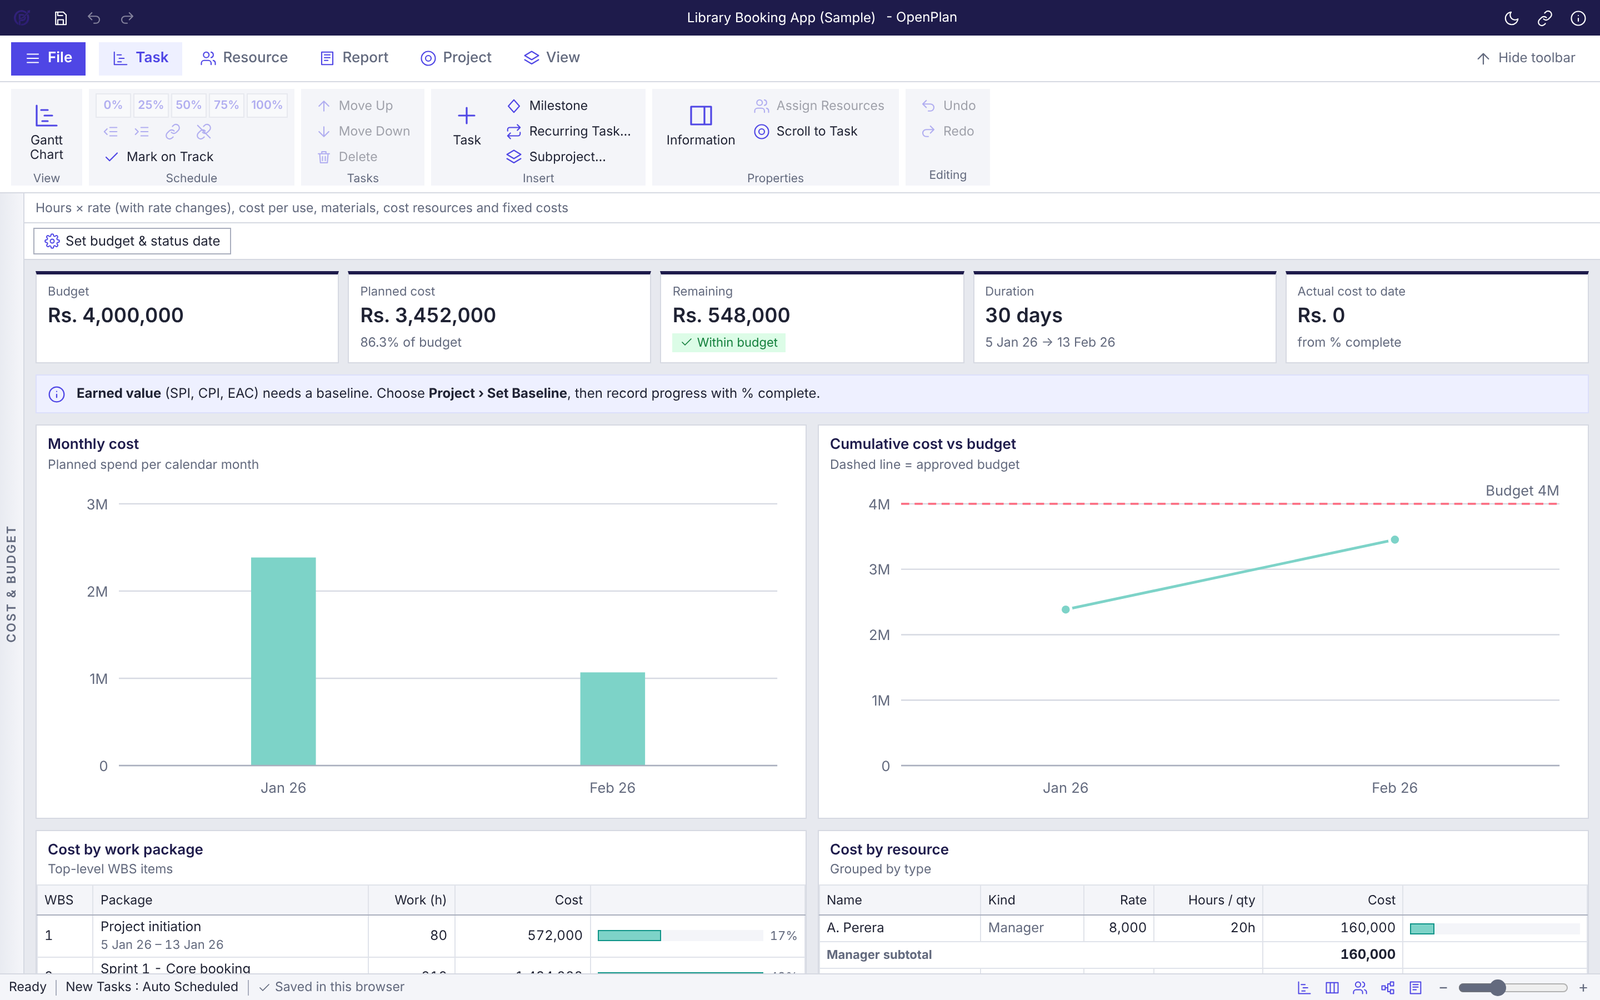
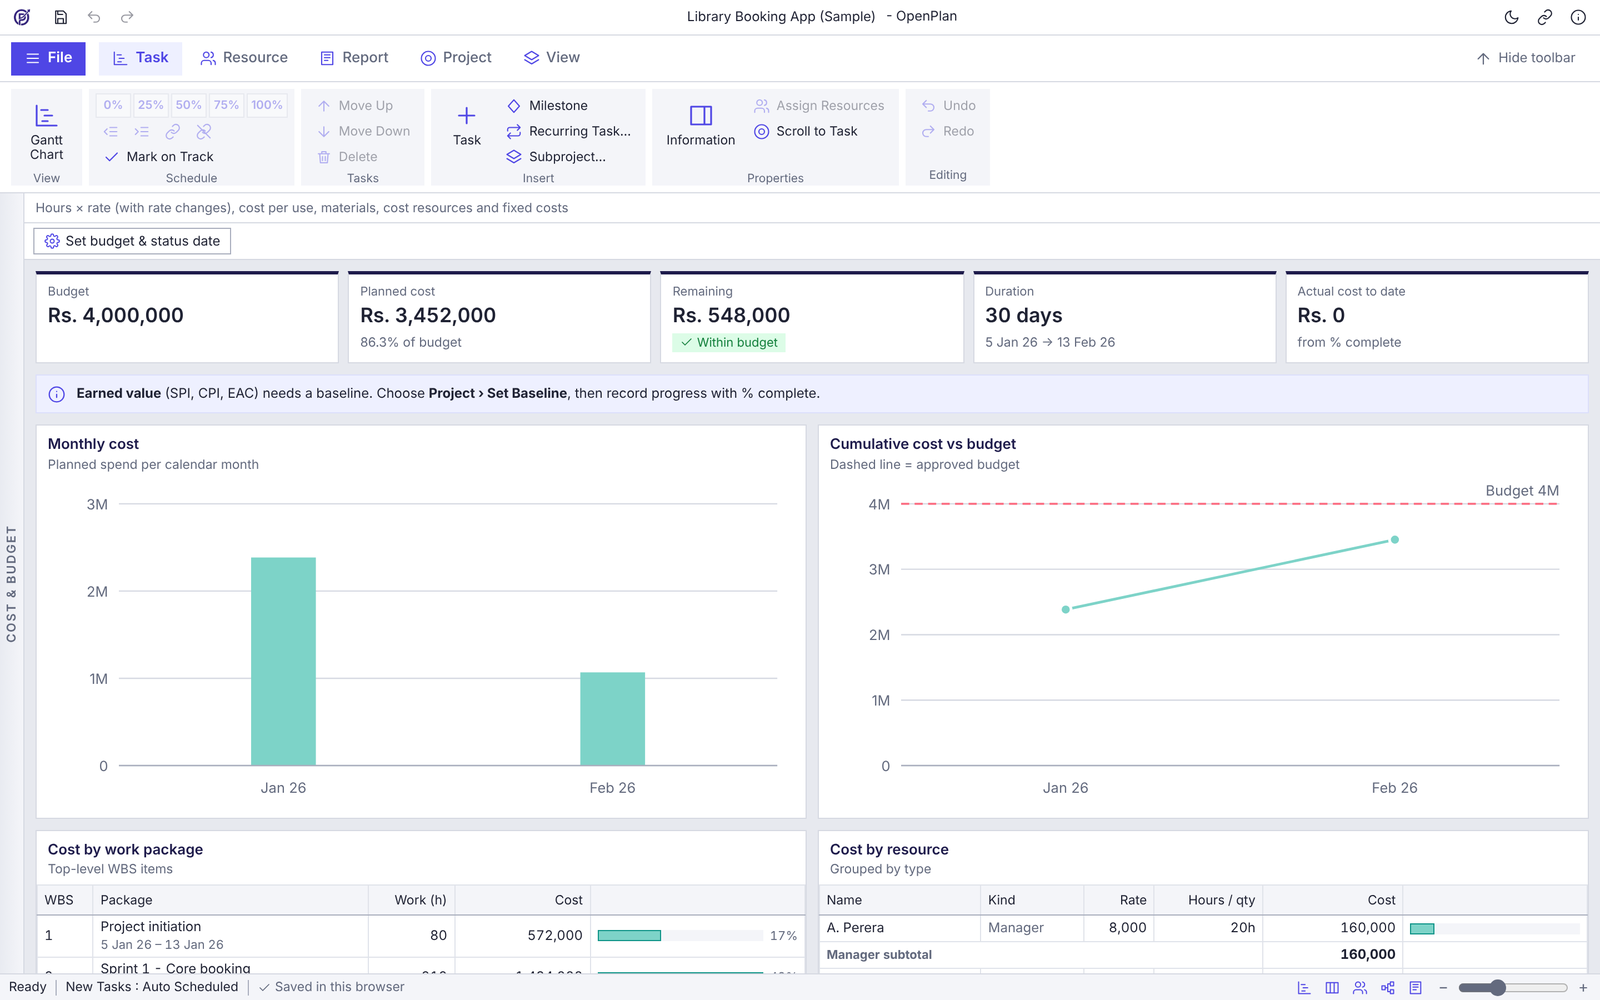
feat: give the app a light title bar and File menu
The title bar, the File menu sidebar and primary buttons were dark navy
in the light theme. They are now white with a thin border, an accent
highlight for the open File page and accent-coloured primary buttons.
Dark mode keeps its navy look, and is still available from the title bar.

Set the browser theme colour to white and refresh the README screenshots.

Changed region(s): [[0.0, 0.0, 1.0, 0.062]]

diff --git a/src/styles.css b/src/styles.css
@@ -9,7 +9,10 @@
   --brand-light: var(--accent-soft);
   --brand-mid: var(--hover-strong);
   --on-brand: #ffffff;
-  --title-text: var(--on-brand);
+  /* title bar, File menu sidebar and primary buttons: light in the light theme */
+  --chrome-bg: var(--surface); --chrome-text: var(--text); --chrome-border: var(--border);
+  --chrome-hover: rgba(30, 27, 75, 0.08); --chrome-on: var(--accent-soft); --chrome-on-text: var(--accent);
+  --primary-bg: var(--accent); --primary-border: var(--accent-hover); --primary-hover: var(--accent-hover); --on-primary: #ffffff;
   --bg: #ffffff;
   --app: #e7e9ef;
   --ribbon: #f5f6fa;
@@ -70,6 +73,9 @@
 
 :root[data-theme="dark"] {
   --brand: #15132f; --brand-dark: #0d0c1f; --brand-fg: var(--accent);
+  --chrome-bg: var(--brand); --chrome-text: #ffffff; --chrome-border: var(--brand-dark);
+  --chrome-hover: rgba(255, 255, 255, 0.18); --chrome-on: var(--brand-dark); --chrome-on-text: #ffffff;
+  --primary-bg: var(--brand); --primary-border: var(--brand-dark); --primary-hover: var(--brand-dark); --on-primary: #ffffff;
   --bg: #16171f; --app: #111218; --ribbon: #1d1e28; --surface: #1a1b24; --surface-2: #232431; --surface-3: #2c2d3c;
   --border: #363849; --border-strong: #4d5066; --grid-line: #2b2d3b; --text: #e6e7ef; --text-muted: #9a9db0;
   --accent: #8b85ff; --accent-hover: #a5a0ff; --accent-soft: #26244a; --accent-text: #0e0d24;
@@ -102,19 +108,19 @@ svg.i { width: 16px; height: 16px; flex: none; stroke: currentColor; fill: none;
 
 /* ---------- title bar ---------- */
 .titlebar {
-  height: 32px; flex: none; display: flex; align-items: center; background: var(--brand); color: var(--title-text); padding: 0 6px; gap: 8px; user-select: none;
+  height: 32px; flex: none; display: flex; align-items: center; background: var(--chrome-bg); color: var(--chrome-text); border-bottom: 1px solid var(--chrome-border); padding: 0 6px; gap: 8px; user-select: none;
 }
 .qat, .tb-right { display: flex; align-items: center; gap: 2px; }
 .app-icon { width: 20px; height: 20px; margin: 0 6px 0 2px; object-fit: contain; }
 img.logo { object-fit: contain; }
 .qat-btn { width: 28px; height: 26px; border: 0; background: transparent; color: inherit; display: grid; place-items: center; cursor: pointer; }
-.qat-btn:hover { background: rgba(255, 255, 255, 0.18); }
+.qat-btn:hover { background: var(--chrome-hover); }
 .qat-btn:disabled { opacity: 0.45; pointer-events: none; }
 .qat-btn svg.i { width: 15px; height: 15px; }
 .title { flex: 1; text-align: center; font-size: var(--fs-base); white-space: nowrap; overflow: hidden; text-overflow: ellipsis; }
 .title-btn { max-width: 60%; padding: 2px 6px; border: 0; background: transparent; color: inherit; font: inherit; cursor: text; vertical-align: middle; white-space: nowrap; overflow: hidden; text-overflow: ellipsis; }
-.title-btn:hover { background: rgba(255, 255, 255, 0.18); }
-.title-inp { field-sizing: content; min-width: 8ch; max-width: 60%; height: 22px; padding: 2px 6px; border: 0; outline: 1px solid rgba(255, 255, 255, 0.45); background: rgba(255, 255, 255, 0.18); color: inherit; font: inherit; vertical-align: middle; }
+.title-btn:hover { background: var(--chrome-hover); }
+.title-inp { field-sizing: content; min-width: 8ch; max-width: 60%; height: 22px; padding: 2px 6px; border: 0; outline: 1px solid var(--accent); background: var(--surface); color: inherit; font: inherit; vertical-align: middle; }
 
 /* ---------- toolbar ---------- */
 .ribbon-tabs { flex: none; display: flex; align-items: center; background: var(--surface); border-bottom: 1px solid var(--border); height: 42px; padding: 0 10px; gap: 4px; overflow-x: auto; overflow-y: hidden; }
@@ -208,9 +214,9 @@ main { flex: 1; min-width: 0; min-height: 0; display: flex; flex-direction: colu
 .btn { display: inline-flex; align-items: center; gap: 5px; height: 24px; padding: 0 9px; border: 1px solid var(--border-strong); background: var(--surface); cursor: pointer; white-space: nowrap; font-size: var(--fs-base); }
 .btn:hover { background: var(--hover); border-color: var(--brand-fg); }
 .btn svg.i { width: 14px; height: 14px; color: var(--accent); }
-.btn.primary { background: var(--brand); border-color: var(--brand-dark); color: var(--on-brand); }
-.btn.primary svg.i { color: var(--on-brand); }
-.btn.primary:hover { background: var(--brand-dark); }
+.btn.primary { background: var(--primary-bg); border-color: var(--primary-border); color: var(--on-primary); }
+.btn.primary svg.i { color: var(--on-primary); }
+.btn.primary:hover { background: var(--primary-hover); }
 .btn.ghost { border-color: transparent; background: transparent; }
 .btn.ghost:hover { background: var(--hover); border-color: var(--hover-strong); }
 .btn:disabled, .icon-btn:disabled { opacity: 0.4; pointer-events: none; }
@@ -440,13 +446,13 @@ table.data.rpt th { position: static; }
 /* ---------- File backstage ---------- */
 .backstage { position: fixed; inset: 32px 0 0 0; z-index: 80; display: flex; background: var(--surface); }
 .backstage[hidden] { display: none; }
-.bs-nav { width: 180px; flex: none; background: var(--brand); color: var(--on-brand); display: flex; flex-direction: column; padding-top: 8px; }
-.bs-back { width: 40px; height: 40px; margin: 4px 0 14px 12px; border: 1.5px solid rgba(255, 255, 255, 0.85); background: transparent; color: var(--on-brand); display: grid; place-items: center; cursor: pointer; }
+.bs-nav { width: 180px; flex: none; background: var(--chrome-bg); color: var(--chrome-text); border-right: 1px solid var(--chrome-border); display: flex; flex-direction: column; padding-top: 8px; }
+.bs-back { width: 40px; height: 40px; margin: 4px 0 14px 12px; border: 1.5px solid var(--chrome-text); background: transparent; color: var(--chrome-text); display: grid; place-items: center; cursor: pointer; }
 .bs-back svg.i { transform: rotate(-90deg); width: 18px; height: 18px; }
-.bs-back:hover { background: rgba(255, 255, 255, 0.15); }
-.bs-item { border: 0; background: transparent; color: var(--on-brand); text-align: left; padding: 9px 24px; font-size: var(--fs-lg); cursor: pointer; }
-.bs-item:hover { background: rgba(255, 255, 255, 0.14); }
-.bs-item.on { background: var(--brand-dark); }
+.bs-back:hover { background: var(--chrome-hover); }
+.bs-item { border: 0; background: transparent; color: var(--chrome-text); text-align: left; padding: 9px 24px; font-size: var(--fs-lg); cursor: pointer; }
+.bs-item:hover { background: var(--chrome-hover); }
+.bs-item.on { background: var(--chrome-on); color: var(--chrome-on-text); font-weight: 600; }
 .bs-body { flex: 1; overflow: auto; padding: 22px 36px; }
 .bs-body h1 { font-size: var(--fs-5xl); font-weight: 300; margin: 0 0 18px; }
 .bs-body h2 { font-size: var(--fs-3xl); font-weight: 400; margin: 0 0 12px; }
@@ -563,7 +569,6 @@ kbd { font: var(--fs-xs) Consolas, monospace; padding: 0 4px; border: 1px solid 
   --brand-light: var(--accent-soft);
   --brand-mid: var(--hover-strong);
   --on-brand: #ffffff;
-  --title-text: var(--on-brand);
   --bg: #ffffff;
   --app: #e7e9ef;
   --ribbon: #f5f6fa;
@@ -794,8 +799,8 @@ kbd { font: var(--fs-xs) Consolas, monospace; padding: 0 4px; border: 1px solid 
   .rpt-all .paper + .paper { break-before: page; }
   .paper { border: 0; box-shadow: none; padding: 0; }
 }
-.titlebar .icon-btn { color: var(--on-brand); border: 0; width: 28px; height: 26px; }
-.titlebar .icon-btn:hover { background: rgba(255, 255, 255, 0.18); color: var(--on-brand); }
+.titlebar .icon-btn { color: var(--chrome-text); border: 0; width: 28px; height: 26px; }
+.titlebar .icon-btn:hover { background: var(--chrome-hover); color: var(--chrome-text); }
 
 /* React root fills the window like the old body layout. */
 #root { flex: 1; min-height: 0; display: flex; flex-direction: column; }

diff --git a/index.html b/index.html
@@ -11,7 +11,7 @@
   <link rel="icon" type="image/png" href="./assets/OpenPlan.png">
   <link rel="apple-touch-icon" href="./assets/icon-192.png">
   <link rel="manifest" href="./manifest.webmanifest">
-  <meta name="theme-color" content="#1e1b4b">
+  <meta name="theme-color" content="#ffffff">
 
   <meta property="og:type" content="website">
   <meta property="og:site_name" content="OpenPlan">
